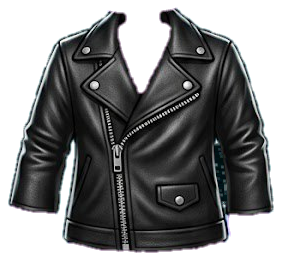
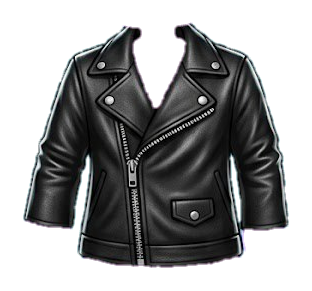
Stage 3 final approved cutouts: sweater v7.3, jacket v6 (sleeve-body gap fixed), jeans iter15

diff --git a/pipeline-roadmap.html b/pipeline-roadmap.html
@@ -845,7 +845,7 @@ footer {
                   <div class="process-step">
                     <div class="step-num-badge">3 · Extracted</div>
                     <div class="step-img step-transparent" id="sweater-s3">
-                      <img src="assets/sweater-3-cutout.png?v=4" alt="Sweater transparent cutout">
+                      <img src="assets/sweater-3-cutout.png?v=6" alt="Sweater transparent cutout">
                     </div>
                     <div class="step-caption">Transparent PNG</div>
                   </div>
@@ -883,7 +883,7 @@ footer {
                   <div class="process-step">
                     <div class="step-num-badge">3 · Extracted</div>
                     <div class="step-img step-transparent" id="jacket-s3">
-                      <img src="assets/jacket-3-cutout.png?v=5" alt="Jacket transparent cutout">
+                      <img src="assets/jacket-3-cutout.png?v=6" alt="Jacket transparent cutout">
                     </div>
                     <div class="step-caption">Transparent PNG</div>
                   </div>
@@ -921,7 +921,7 @@ footer {
                   <div class="process-step">
                     <div class="step-num-badge">3 · Extracted</div>
                     <div class="step-img step-transparent" id="jeans-s3">
-                      <img src="assets/jeans-3-cutout.png" alt="Jeans transparent cutout">
+                      <img src="assets/jeans-3-cutout.png?v=6" alt="Jeans transparent cutout">
                     </div>
                     <div class="step-caption">Transparent PNG</div>
                   </div>
